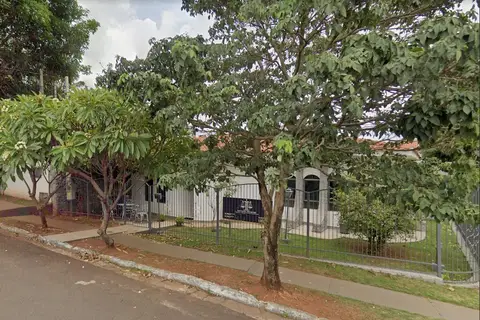
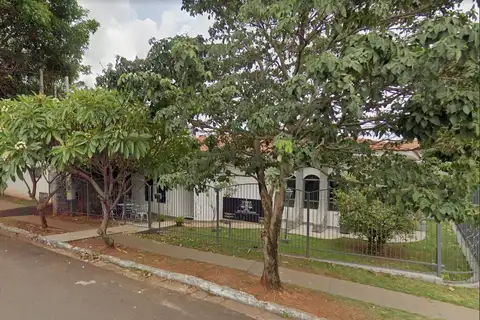
ajustado

diff --git a/index.html b/index.html
@@ -78,6 +78,7 @@
 
 <link rel="preload" href="/assets/fonts/geist.woff2" as="font" type="font/woff2" crossorigin>
 <link rel="preload" href="/assets/fonts/cormorant-garamond.woff2" as="font" type="font/woff2" crossorigin>
+<link rel="preload" href="/assets/fonts/cormorant-garamond-italic.woff2" as="font" type="font/woff2" crossorigin>
 <script>document.documentElement.classList.add('js')</script>
 <style>
   /* Fontes servidas pelo próprio site (subconjunto latino, arquivos variáveis) em vez do Google Fonts,
@@ -293,7 +294,7 @@
 <header class="nav">
   <div class="wrap">
     <a class="brand" href="#inicio" aria-label="Advocacia Bernardini & Associados, início">
-      <img src="assets/marca-88.png" alt="" width="44" height="42">
+      <img src="assets/marca-88.webp" alt="" width="44" height="42">
       <span>Bernardini &amp; Associados</span>
     </a>
     <nav aria-label="Principal">
@@ -329,7 +330,7 @@
       <figure class="hero-media">
         <div class="frame">
           <picture>
-            <source type="image/webp" srcset="assets/fachada-480.webp 480w, assets/fachada-880.webp 880w" sizes="(max-width: 860px) min(calc(100vw - 40px), 544px), 440px">
+            <source type="image/webp" srcset="assets/fachada-480.webp 480w, assets/fachada-640.webp 640w, assets/fachada-880.webp 880w" sizes="(max-width: 860px) min(calc(100vw - 40px), 544px), 440px">
             <img src="assets/fachada.jpg" alt="Fachada do escritório Advocacia Bernardini &amp; Associados, com jardim e árvores em frente" width="1072" height="715" fetchpriority="high">
           </picture>
         </div>
@@ -447,7 +448,9 @@
       </div>
       <div class="map">
         <div class="map-frame">
-        <iframe src="https://www.google.com/maps?q=Rua+Narciso+Nicolosi,+677+-+Nova+Ourinhos,+Ourinhos+-+SP,+19906-465&amp;hl=pt-BR&amp;z=17&amp;output=embed" title="Mapa com a localização do escritório Advocacia Bernardini &amp; Associados" loading="lazy" referrerpolicy="no-referrer-when-downgrade" allowfullscreen></iframe>
+        <!-- O src só é definido quando o mapa se aproxima da tela (script no fim da página): o mapa do Google baixa ~465 KB de JS. -->
+        <iframe data-src="https://www.google.com/maps?q=Rua+Narciso+Nicolosi,+677+-+Nova+Ourinhos,+Ourinhos+-+SP,+19906-465&amp;hl=pt-BR&amp;z=17&amp;output=embed" title="Mapa com a localização do escritório Advocacia Bernardini &amp; Associados" referrerpolicy="no-referrer-when-downgrade" allowfullscreen></iframe>
+        <noscript><iframe src="https://www.google.com/maps?q=Rua+Narciso+Nicolosi,+677+-+Nova+Ourinhos,+Ourinhos+-+SP,+19906-465&amp;hl=pt-BR&amp;z=17&amp;output=embed" title="Mapa com a localização do escritório Advocacia Bernardini &amp; Associados" loading="lazy" referrerpolicy="no-referrer-when-downgrade" allowfullscreen></iframe></noscript>
         </div>
         <div class="map-links">
           <a href="https://www.google.com/maps/dir/?api=1&amp;destination=Rua+Narciso+Nicolosi+677+Nova+Ourinhos+Ourinhos+SP+19906-465" target="_blank" rel="noopener"><svg class="ico" aria-hidden="true"><use href="#i-navigation-arrow"/></svg>Como chegar</a>
@@ -460,7 +463,7 @@
 <footer>
   <div class="wrap">
     <a class="brand" href="#inicio">
-      <img src="assets/marca-88.png" alt="" width="36" height="34" loading="lazy" decoding="async">
+      <img src="assets/marca-88.webp" alt="" width="36" height="34" loading="lazy" decoding="async">
       <span>Advocacia Bernardini &amp; Associados</span>
     </a>
     <!-- TODO: incluir número de inscrição na OAB/SP (Provimento 205/2021). -->
@@ -479,6 +482,18 @@
       });
     }, { rootMargin: '0px 0px -8% 0px', threshold: 0.1 });
     els.forEach(function (el) { io.observe(el); });
+  })();
+
+  // Carrega o mapa só quando ele estiver a ~400px de entrar na tela.
+  (function () {
+    var map = document.querySelector('.map-frame iframe[data-src]');
+    if (!map) return;
+    function load() { map.src = map.getAttribute('data-src'); map.removeAttribute('data-src'); }
+    if (!('IntersectionObserver' in window)) { load(); return; }
+    var io = new IntersectionObserver(function (entries) {
+      if (entries[0].isIntersecting) { load(); io.disconnect(); }
+    }, { rootMargin: '400px 0px' });
+    io.observe(map);
   })();
 </script>
 </body>
